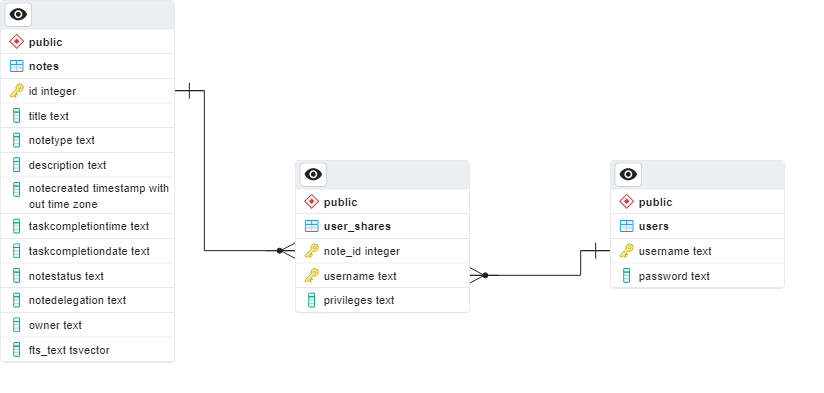
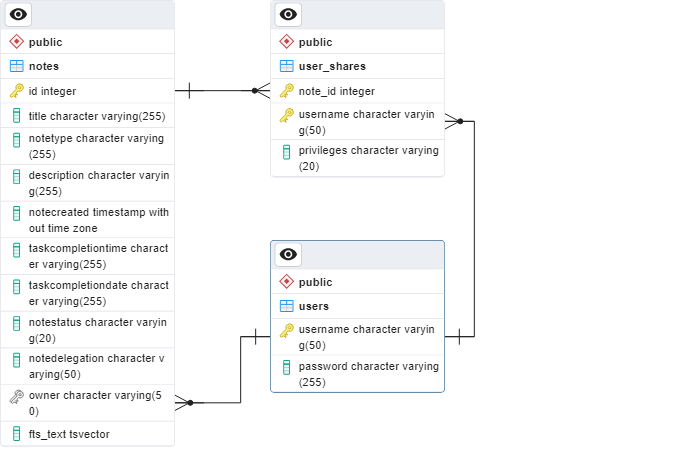
Updated data dictionary and data model

diff --git a/README.md b/README.md
@@ -4,6 +4,10 @@
 
 This aim of this project is to create a basic notes application - based off [pwrcost](https://github.com/yonush/pwrcost). It uses mostly built-in Go packages such as `net/http`, `database/sql`, `strconv`, `html/template` and uses third party packages `gorilla/mux` for the router, `jackc/pgx` for the PostegreSQL driver and `icza/session ` for session manangement.
 
+## Quick start guide
+
+[Click here to view Quick Start Guide](docs/QuickStartGuide.md)
+
 ## This application requirements are as follows:</p>
 
 > The Enterprise Notes application is an online service to users within an enterprise. The users will need to setup
